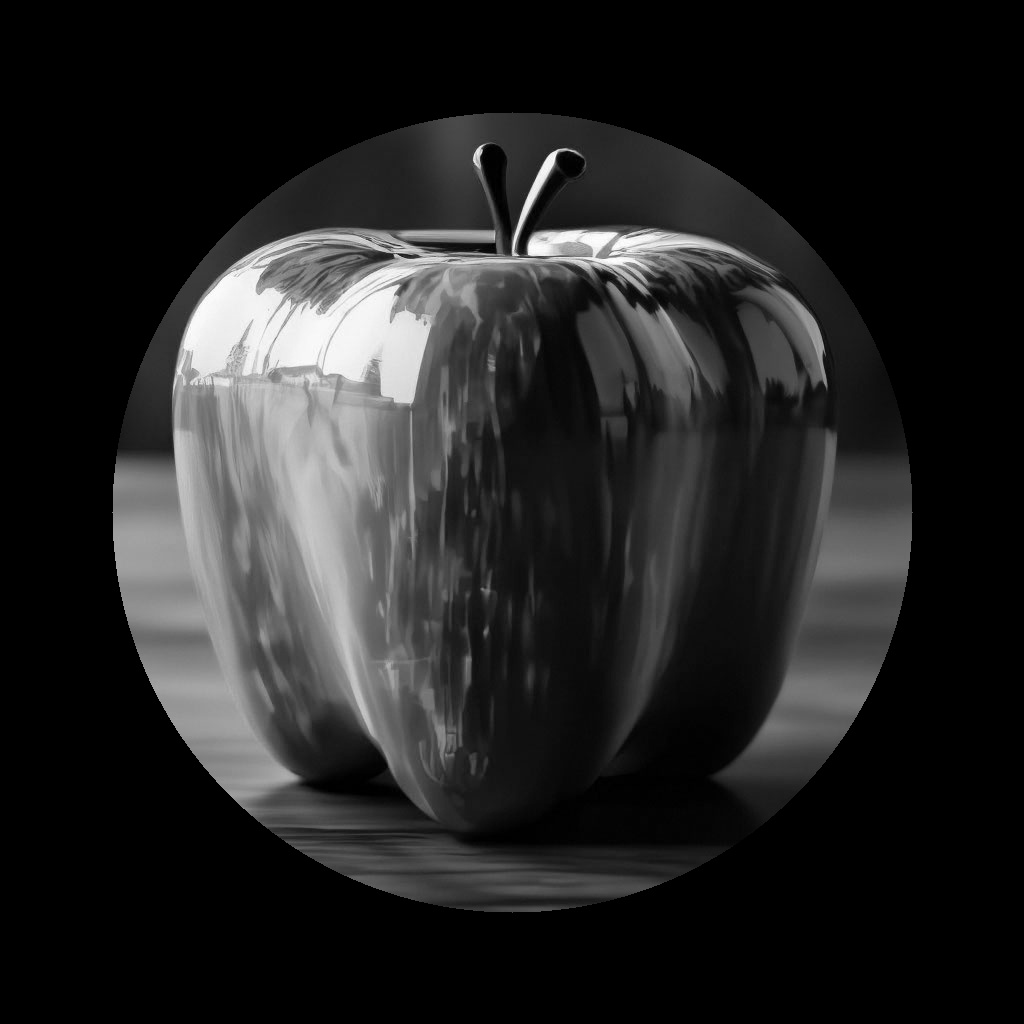
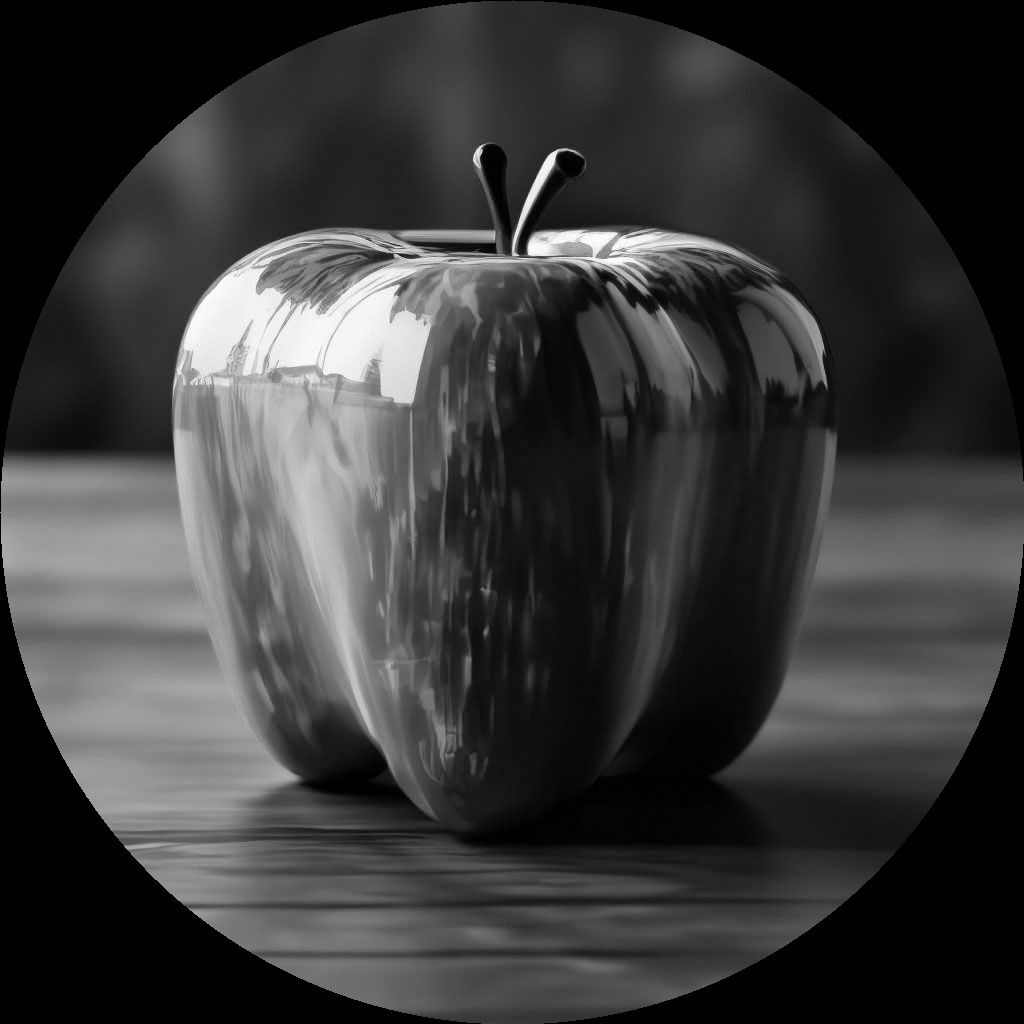
1 lab: No using math.Sqrt() func for calculating distance from center No fixed radius 2 lab: Floyd Steinberg algorithm (corrected)

Changed region(s): [[0.0, 0.0, 1.0, 1.0]]

diff --git a/cmd/2_lab/main.go b/cmd/2_lab/main.go
@@ -37,21 +37,66 @@ func rgb2Grayscale(originImg gocv.Mat) gocv.Mat {
 
 	ptr, _ := grayImage.DataPtrUint8()
 	copy(ptr, grayData)
-
+	//var outputFilename = "..\\..\\static\\images\\2_lab\\Marcus_Aurelius_grayscale.jpg"
+	//gocv.IMWrite(outputFilename, grayImage)
 	return grayImage
 }
 
-func roundWithErr(pixVal uint8) (uint8, uint8) {
-	if pixVal >= 128 {
-		return 255, pixVal - 255
+func ditheringTo1bpp(pixVal uint8) (uint8, int) {
+	if pixVal < 0 {
+		return 0, 0
+	} else if pixVal < 127 {
+		return 0, int(pixVal)
+	} else if pixVal < 255 {
+		return 255, int(pixVal) - 255
 	} else {
-		return 0, 255 - pixVal
+		return 255, 0
+	}
+	//if pixVal <= 31 {
+	//	return 0, 0 - pixVal
+	//} else if pixVal <= 95 {
+	//	return 63, 63 - pixVal
+	//} else if pixVal <= 159 {
+	//	return 127, 127 - pixVal
+	//} else if pixVal <= 223 {
+	//	return 191, 191 - pixVal
+	//} else {
+	//	return 255, 255 - pixVal
+	//}
+}
+func ditheringTo2bpp(pixVal uint8) (uint8, int) {
+	if pixVal <= 0 {
+		return 0, 0
+	} else if pixVal <= 31 {
+		return 0, int(pixVal)
+	} else if pixVal <= 95 {
+		return 63, int(pixVal) - 63
+	} else if pixVal <= 159 {
+		return 127, int(pixVal) - 127
+	} else if pixVal <= 223 {
+		return 191, int(pixVal) - 191
+	} else if pixVal < 255 {
+		return 255, int(pixVal) - 255
+	} else {
+		return 255, 0
 	}
 }
 
+// clamp ограничивает значение value в пределах от 0 до 255
+func clamp(value int) uint8 {
+	if value < 0 {
+		return 0
+	} else if value > 255 {
+		return 255
+	}
+	return uint8(value)
+}
 func ditheringFloydSteinberg() {
 	var originFilename = "..\\..\\static\\images\\2_lab\\Marcus_Aurelius.jpg"
-	var outputFilename = "..\\..\\static\\images\\2_lab\\Marcus_Aurelius_dithered.jpg"
+	var outputFilename = "..\\..\\static\\images\\2_lab\\Marcus_Aurelius_dithered_2bpp.jpg"
+
+	//var originFilename = "..\\..\\static\\images\\2_lab\\elephant.jpg"
+	//var outputFilename = "..\\..\\static\\images\\2_lab\\elephant_dithered_1bpp.jpg"
 
 	originImg := gocv.IMRead(originFilename, gocv.IMReadColor)
 	defer originImg.Close()
@@ -69,30 +114,30 @@ func ditheringFloydSteinberg() {
 			index := wigth*y + x
 			fmt.Println(y)
 			currPixVal := processingData[index]
-			currPixValResult, err := roundWithErr(currPixVal)
+			currPixValResult, err := ditheringTo2bpp(currPixVal)
 			if (x < wigth-1) && (y < height-1) && (x > 0) {
 				processingData[index] = currPixValResult
-				processingData[index+1] += uint8(7 * err / 16)
-				processingData[index+wigth-1] += uint8(3 * err / 16)
-				processingData[index+wigth] += uint8(5 * err / 16)
-				processingData[index+wigth+1] += uint8(err / 16)
+				processingData[index+1] += clamp((7 * err) / 16)
+				processingData[index+wigth-1] += clamp((3 * err) / 16)
+				processingData[index+wigth] += clamp((5 * err) / 16)
+				processingData[index+wigth+1] += clamp(err / 16)
 			} else if (x == 0) && (y == height-1) { //Lower left corner
 				processingData[index] = currPixValResult
-				processingData[index+1] += uint8(7 * err / 16)
+				processingData[index+1] += clamp(7 * err / 16)
 			} else if (x == wigth-1) && (y == height-1) { //Lower right corner
 				processingData[index] = currPixValResult
 			} else if x == 0 { //Left border
 				processingData[index] = currPixValResult
-				processingData[index+1] += uint8(7 * err / 16)
-				processingData[index+wigth] += uint8(5 * err / 16)
-				processingData[index+wigth+1] += uint8(err / 16)
+				processingData[index+1] += clamp(7 * err / 16)
+				processingData[index+wigth] += clamp(5 * err / 16)
+				processingData[index+wigth+1] += clamp(err / 16)
 			} else if x == wigth-1 { //Right border
 				processingData[index] = currPixValResult
-				processingData[index+wigth-1] += uint8(3 * err / 16)
-				processingData[index+wigth] += uint8(5 * err / 16)
+				processingData[index+wigth-1] += clamp(3 * err / 16)
+				processingData[index+wigth] += clamp(5 * err / 16)
 			} else if y == height-1 { //Low border
 				processingData[index] = currPixValResult
-				processingData[index+1] += uint8(7 * err / 16)
+				processingData[index+1] += clamp(7 * err / 16)
 			}
 		}
 	}
@@ -107,5 +152,6 @@ func ditheringFloydSteinberg() {
 }
 
 func main() {
+
 	ditheringFloydSteinberg()
 }

diff --git a/cmd/1_lab/main.go b/cmd/1_lab/main.go
@@ -20,7 +20,8 @@ func grayRoundImage() {
 	channels := originImg.Channels() //num of colour channels
 
 	//Circle data
-	rad := float64(400)
+	radSquare := math.Pow(float64(min(wigth, height))/2, 2)
+
 	centerX := wigth / 2
 	centerY := height / 2
 
@@ -35,7 +36,9 @@ func grayRoundImage() {
 			index := (y*wigth + x) * channels
 			grayIndex := y*wigth + x
 
-			if math.Sqrt(math.Pow(float64(centerX-x), 2)+math.Pow(float64(centerY-y), 2)) <= rad {
+			//test := math.Pow(float64(centerX-x), 2) + math.Pow(float64(centerY-y), 2)
+			//fmt.Println(test)
+			if math.Pow(float64(centerX-x), 2)+math.Pow(float64(centerY-y), 2) <= radSquare {
 				blue := processingImage[index]
 				red := processingImage[index+1]
 				green := processingImage[index+2]
